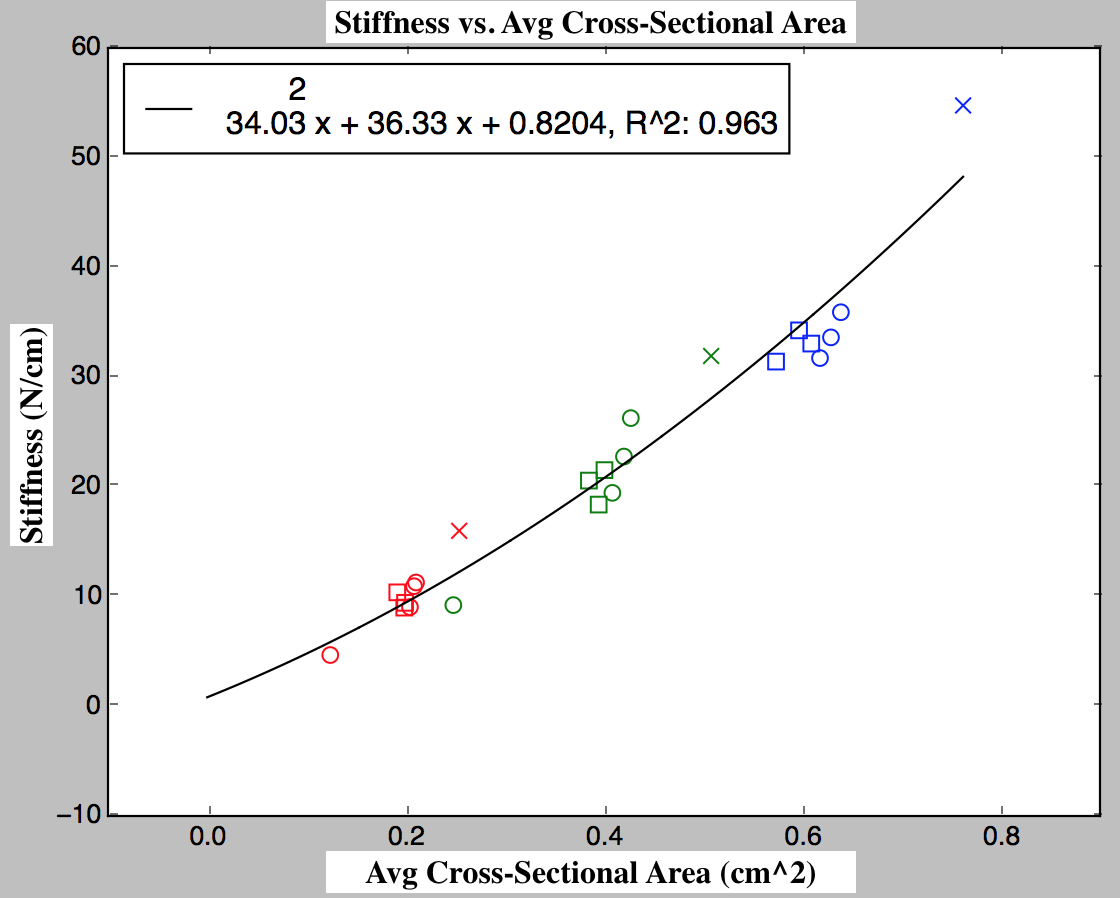
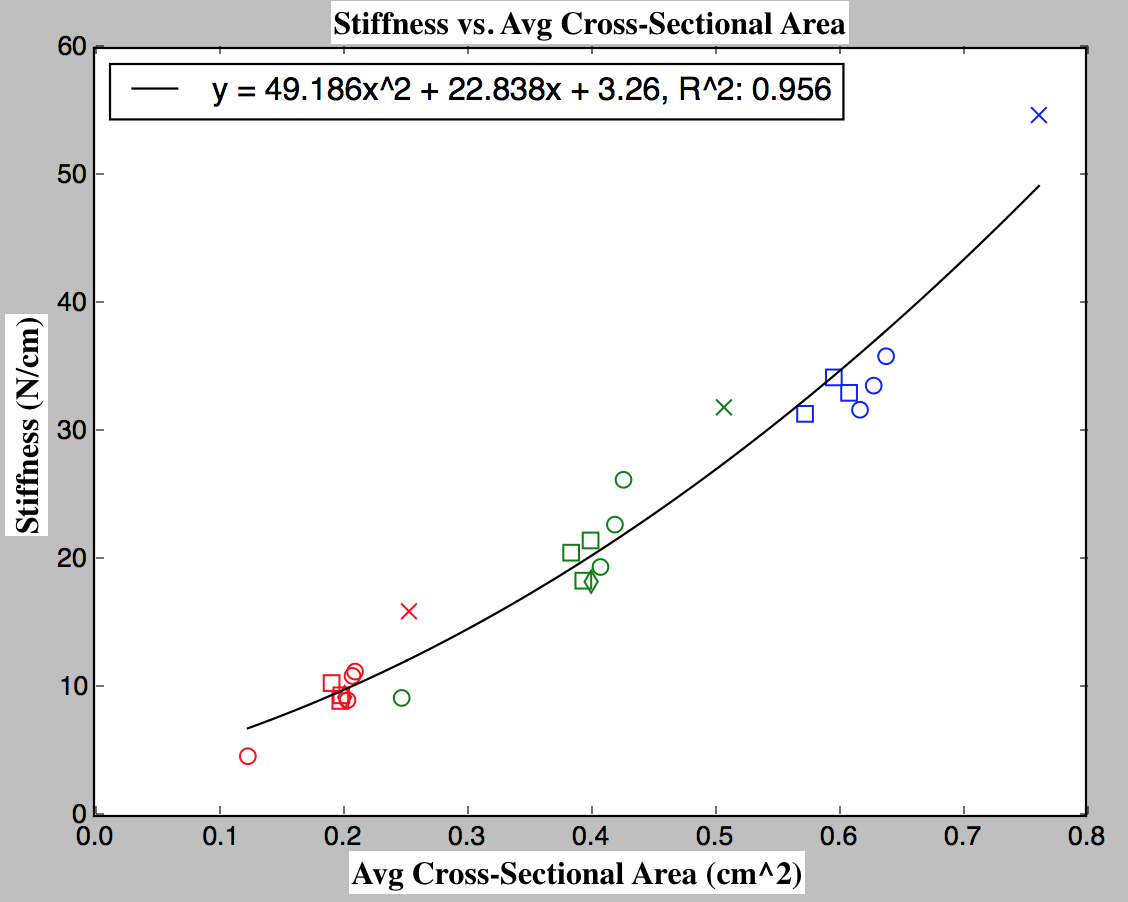
added comments

diff --git a/Data Collection/collection.py b/Data Collection/collection.py
@@ -7,7 +7,6 @@ import numpy as np
 import cv2 as cv
 import sys
 import csv
-import time
 import random
 
 # This method does nothing. It just needs to be passed to the createTrackbar()
@@ -16,14 +15,14 @@ def nothing(x):
     pass
 
 
-# Takes in initial measured length between the markers
+# Takes in initial measured length between the blue tape markers
 # Creates a video capture frame, detects the two blue markers,
 # calculates the distance between the markers in each frame, and returns a list
 # of the lengths. Starts calculating lengths when the toggle switch at the top
 # of the window is turned on (set to 1). Video capture ends when 'q' is pressed.
-# When 's' is pressed, saves the lengths as a CSV file with filename given as
-# raw input in command line, then ends the program.
-# Returns a list of the collected lengths.
+# When 's' is pressed, program ends after saveing the lengths as a CSV file with
+# filename 'serialNumber_length.csv', where the serial number is given in terminal
+# window when prompted. Returns a list of the collected lengths.
 def getLength( measured_length ):
 
     '''Initialize video capture and intial lengths'''
@@ -31,8 +30,6 @@ def getLength( measured_length ):
     len0 = float(measured_length) #original length in cm
     dist0 = None #original pixel distance
     lengths = []
-    # t0 = 0
-    # times = []
 
 
     '''Create Toggle Switch To Record Length'''
@@ -47,7 +44,7 @@ def getLength( measured_length ):
         if ret == True:
 
             '''Find all blue contours in the frame'''
-            # set ROI to middle rectangle of 400x200 pixels
+            # set region of interest (ROI) to middle rectangle of 400x200 pixels
             height = frame.shape[0]
             width = frame.shape[1]
             ROI = frame[ (height/2)-200:(height/2)+200 , (width/2)-100:(width/2)+100 ]
@@ -57,30 +54,30 @@ def getLength( measured_length ):
             hsv = cv.cvtColor(blurred, cv.COLOR_BGR2HSV)
             frame[ (height/2)-200:(height/2)+200 , (width/2)-100:(width/2)+100 ] = hsv
 
-            # HSV Thresholds
+            # HSV Thresholds to identify blue chroma tape
             lower_blue_tape = np.array([110,20,20])
             upper_blue_tape = np.array([120,235,235])
 
-            # create mask & remove noise
+            # create mask of all blue spots in the ROI & remove noise
             mask = cv.inRange(hsv, lower_blue_tape, upper_blue_tape)
             mask = cv.erode(mask, None, iterations=3)
             mask = cv.dilate(mask, None, iterations=3)
 
-        	# find contours in the mask
+        	# find contours in the mask of identified blue spots in ROI
             conts = cv.findContours(mask.copy(), cv.RETR_EXTERNAL, cv.CHAIN_APPROX_SIMPLE)
             conts = conts[1]
 
 
             '''Find and track the 2 markers'''
-        	# only proceed if at least two contours were found
+        	# only proceed if at least two blue contours were found
             if len(conts) > 1:
 
-        		# find the 2 largest contours in the mask
+        		# find the 2 largest blue contours in the ROI
                 conts.sort(key=cv.contourArea)
                 box1 = conts[-1]
                 box2 = conts[-2]
 
-                # create bounding rectangles and centroids
+                # create bounding rectangles and centroids around the 2 largest contours
                 x1,y1,h1,w1 = cv.boundingRect(box1)
                 x2,y2,h2,w2 = cv.boundingRect(box2)
 
@@ -88,9 +85,10 @@ def getLength( measured_length ):
                 center2 = ( x2+(h2/2) , y2+(w2/2) )
 
 
-        		# only proceed if the rectangles meet a minimum size
+        		# only proceed and draw the rectangles if they arae a specified size
                 '''May need to adjust sizes in if statement based on experimental setup.
-                Adjust by printing h1,h2,w1,w2 to find desired contour sizes.'''
+                Adjust by printing h1,h2,w1,w2 to find desired contour sizes.
+                Some commonly used boundaries can be seen commented out below'''
                 # print h1,h2,w1,w2
                 # if h1>25 and h2>25 and w1>8 and w2>8: # sheet tendon size
                 if 20<h1<50 and 20<h2<50 and 10<w1<30 and 10<w2<30: # ribbon clamp size
@@ -123,21 +121,15 @@ def getLength( measured_length ):
                     if (len0-1) < length < 16:
                         lengths.append(length)
 
-
-            # curTime = time.time()*1000
-            # dif = curTime - t0
-            # t0 = curTime
-            # times.append(dif)
-            # print dif
-
             '''Display frames'''
-            cv.imshow('mask',mask)
+            cv.imshow('mask',mask) # black and white showing all blue items in ROI
             cv.imshow('original', frame)
 
 
             '''Quit if q is pressed'''
             if cv.waitKey(1) & 0xFF == ord('q'):
                 break
+            # save and quit if s is pressed
             elif cv.waitKey(1) & 0xFF == ord('s'):
                 filename = raw_input('Type tendon serial number here: ')
                 save(lengths, filename+'_length')
@@ -145,11 +137,9 @@ def getLength( measured_length ):
         else:
             break
 
+    # close all windows and end program
     cap.release()
     cv.destroyAllWindows()
-
-    # times = times[1:]
-    # print 'max: ' , max(times) , ', min: ' , min(times) , ', avg: ' , sum(times)/len(times)
 
     return lengths
 
@@ -170,15 +160,15 @@ def save( data, filename, plats = False ):
 
 # Takes in a CSV filename. Assumes the data is in the form produced by the
 # Force Gage, where the first row is the column headers and the forces are in
-# the second column. Returns a list of the forces.
+# the second column, and all negative (tension). Returns a list of the forces.
 def readForce( filename ):
 
     forces = []
     file = open( '../Data/'+filename, 'rU' )
     rows = csv.reader(file)
-    next(rows,None)
+    next(rows,None) # skip row of column headers
     for row in rows:
-        if row[1] != '':
+        if row[1] != '': # if there is a force value recorded in the row
             forces.append( float(row[1])*-1 )
     file.close()
 
@@ -186,7 +176,7 @@ def readForce( filename ):
 
 
 # Takes in a CSV filename. Assumes the data is in the form produced by the
-# getLength method, where the file only contains one column of lengths
+# getLength method, where the file only contains one column (of lengths)
 # Returns a list of the lengths.
 def readLength( filename ):
 
@@ -200,15 +190,21 @@ def readLength( filename ):
     return lengths
 
 
-def randLengths( min ):
+# Randomly generate and return a list of floats >= the given minimum value and
+# less than 150% of the minimum value.
+# List length is given by the numLengths field.
+# Ensures the difference between consecutive lengths is at least 0.5 to aid in
+# plateau identification.
+def randLengths( min, numLengths ):
     lens = [min]
-    while len(lens) < 11:
+    while len(lens) < numLengths:
         new = round( random.uniform(min, min+(0.5*min)) , 1 )
         if abs(new - lens[-1]) > 0.5:
             lens.append( new )
     return lens
 
 
+# Print random lengths then open computer vision window
 if __name__ == '__main__':
-    print randLengths( float(sys.argv[1]) )
+    print randLengths( float(sys.argv[1]), 11 )
     getLength( sys.argv[1] )

diff --git a/Data Collection/driver.py b/Data Collection/driver.py
@@ -10,12 +10,15 @@ import csv
 import os.path
 
 
+# Reads the force and length plateau values from the given CSV file with
+# forces in the first column and lengths in the second.
+# Returns lists of the force and length plateau values.
 def readPlats( filename ):
     force_plats = []
     length_plats = []
     file = open( filename, 'rU' )
     rows = csv.reader(file)
-    next(rows,None)
+    next(rows,None) # skip first row with column headers
     for row in rows:
         force_plats.append( float(row[0]) )
         length_plats.append( float(row[1]) )
@@ -24,6 +27,8 @@ def readPlats( filename ):
     return force_plats,length_plats
 
 
+# Takes in lists of force and length plateau values.
+# Calculates and returns two floats that are the work required to stretch and relax the tendon.
 def getWork( forces, lengths ):
     peak = forces.index(max(forces))
     stretch = analysis.integrate(forces[:peak+1],lengths[:peak+1])
@@ -31,17 +36,25 @@ def getWork( forces, lengths ):
     return stretch, relax
 
 
-# read force & length csv files, find and save plateaus as csv & plot force v. length
-def getPlats( argv ):
+# Takes one command line argument, which is assumed to be the tendon serial number.
+# Reads force and lentgh plateaus from 'serialNumber_plats.csv' file if it exists.
+# Otherwise, reads raw force and length data and calculates plateaus using methods
+# from analysis.py, and saves plateaus in a file named 'serialNumber_plats.csv'.
+# Calculates and prints work required to stretch and relax tendon, and its efficiency.
+# (work data is only accurate for work loop. not when tendon was tested at random lengths)
+# Plots force vs. length using plotData() method from analysis.py
+def main( argv ):
     '''Check if given cmd line args'''
     if len(argv) < 2:
-        print 'usage: %s <filename>' % (argv[0])
+        print 'usage: %s <serial number>' % (argv[0])
         exit()
 
+    # Read plateaus from file if it exists
     if os.path.isfile('../Data/' + argv[1] + '_plats.csv'):
         print 'reading'
         force_plats,length_plats = readPlats('../Data/' + argv[1] + '_plats.csv')
 
+    # Calculate plateaus from raw data if plateau file doesn't already exist
     else:
         print 'calculating'
         lengths = collection.readLength(argv[1] + '_length.csv')
@@ -62,16 +75,18 @@ def getPlats( argv ):
                 length = length_plats[i]
 
             plats.append( [force, length] )
+
+        # save plateaus to CSV file named 'serialNumber_plats.csv'
         collection.save(plats, argv[1] + '_plats', plats = True)
 
-    return force_plats,length_plats
 
-
-def main( force_plats, length_plats ):
+    # calculate and print work data (only accurate for work loop, not random lengths)
     stretch, relax = getWork(force_plats,length_plats)
     print 'Stretch: ' , stretch , 'J'
     print 'Relax: ' , relax , 'J'
     print 'Efficiency: ' , (relax/stretch)*100 , '%'
+
+    # plot force vs. length. Slope of line is tendon stiffness
     analysis.plotData(force_plats,length_plats)
 
 
@@ -82,5 +97,4 @@ def elastic_mod(k,length,area):
 
 
 if __name__ == '__main__':
-  forces,lengths = getPlats(sys.argv)
-  main( forces,lengths )
+  main( sys.argv )

diff --git a/Plotting/plot.py b/Plotting/plot.py
@@ -112,21 +112,21 @@ def plotData( indep,dep, data ):
     m1, b1, r1, p1, std1 = stats.linregress(lin1[0],lin1[1])
     # string in the form 'y = ax + b, R^2 = _'
     eqn1 = 'y = ' + str( round(m1,3) ) + 'x + ' + str( round(b1,3) ) + ' , R^2 = ' + str( round(r1**2,3) )
-    plt.plot(lin1[0], b1 + m1*np.array(lin1[0]), 'r', label='1mm: '+ eqn1)
+    # plt.plot(lin1[0], b1 + m1*np.array(lin1[0]), 'r', label='1mm: '+ eqn1)
 
 
     # 2mm linear regression line
     m2, b2, r2, p2, std2 = stats.linregress(lin2[0],lin2[1])
     # string in the form 'y = ax + b, R^2 = _'
     eqn2 = 'y = ' + str( round(m2,3) ) + 'x + ' + str( round(b2,3) ) + ' , R^2 = ' + str( round(r2**2,3) )
-    plt.plot(lin2[0], b2 + m2*np.array(lin2[0]), 'g', label='2mm: ' + eqn2)
+    # plt.plot(lin2[0], b2 + m2*np.array(lin2[0]), 'g', label='2mm: ' + eqn2)
 
 
     # 3mm linear regression line
     m3, b3, r3, p3, std3 = stats.linregress(lin3[0],lin3[1])
     # string in the form 'y = ax + b, R^2 = _'
     eqn3 = 'y = ' + str( round(m3,3) ) + 'x + ' + str( round(b3,3) ) + ' , R^2 = ' + str( round(r3**2,3) )
-    plt.plot(lin3[0], b3 + m3*np.array(lin3[0]), 'b', label='3mm: ' + eqn3)
+    # plt.plot(lin3[0], b3 + m3*np.array(lin3[0]), 'b', label='3mm: ' + eqn3)
 
 
     # overall linear regression line
@@ -148,7 +148,7 @@ def plotData( indep,dep, data ):
         str( round(poly[2],3) ) + ', R^2: ' +str(round(R2,3))
     # plot quadratic regression curve
     t = np.linspace(min(data[indep]),max(data[indep]),500)
-    # plt.plot(t,p(t),'-',color='black',label=polyeq)
+    plt.plot(t,p(t),'-',color='black',label=polyeq)
 
     # print equations
     print '\n--------------- Linear Regression Equations ----------------'
